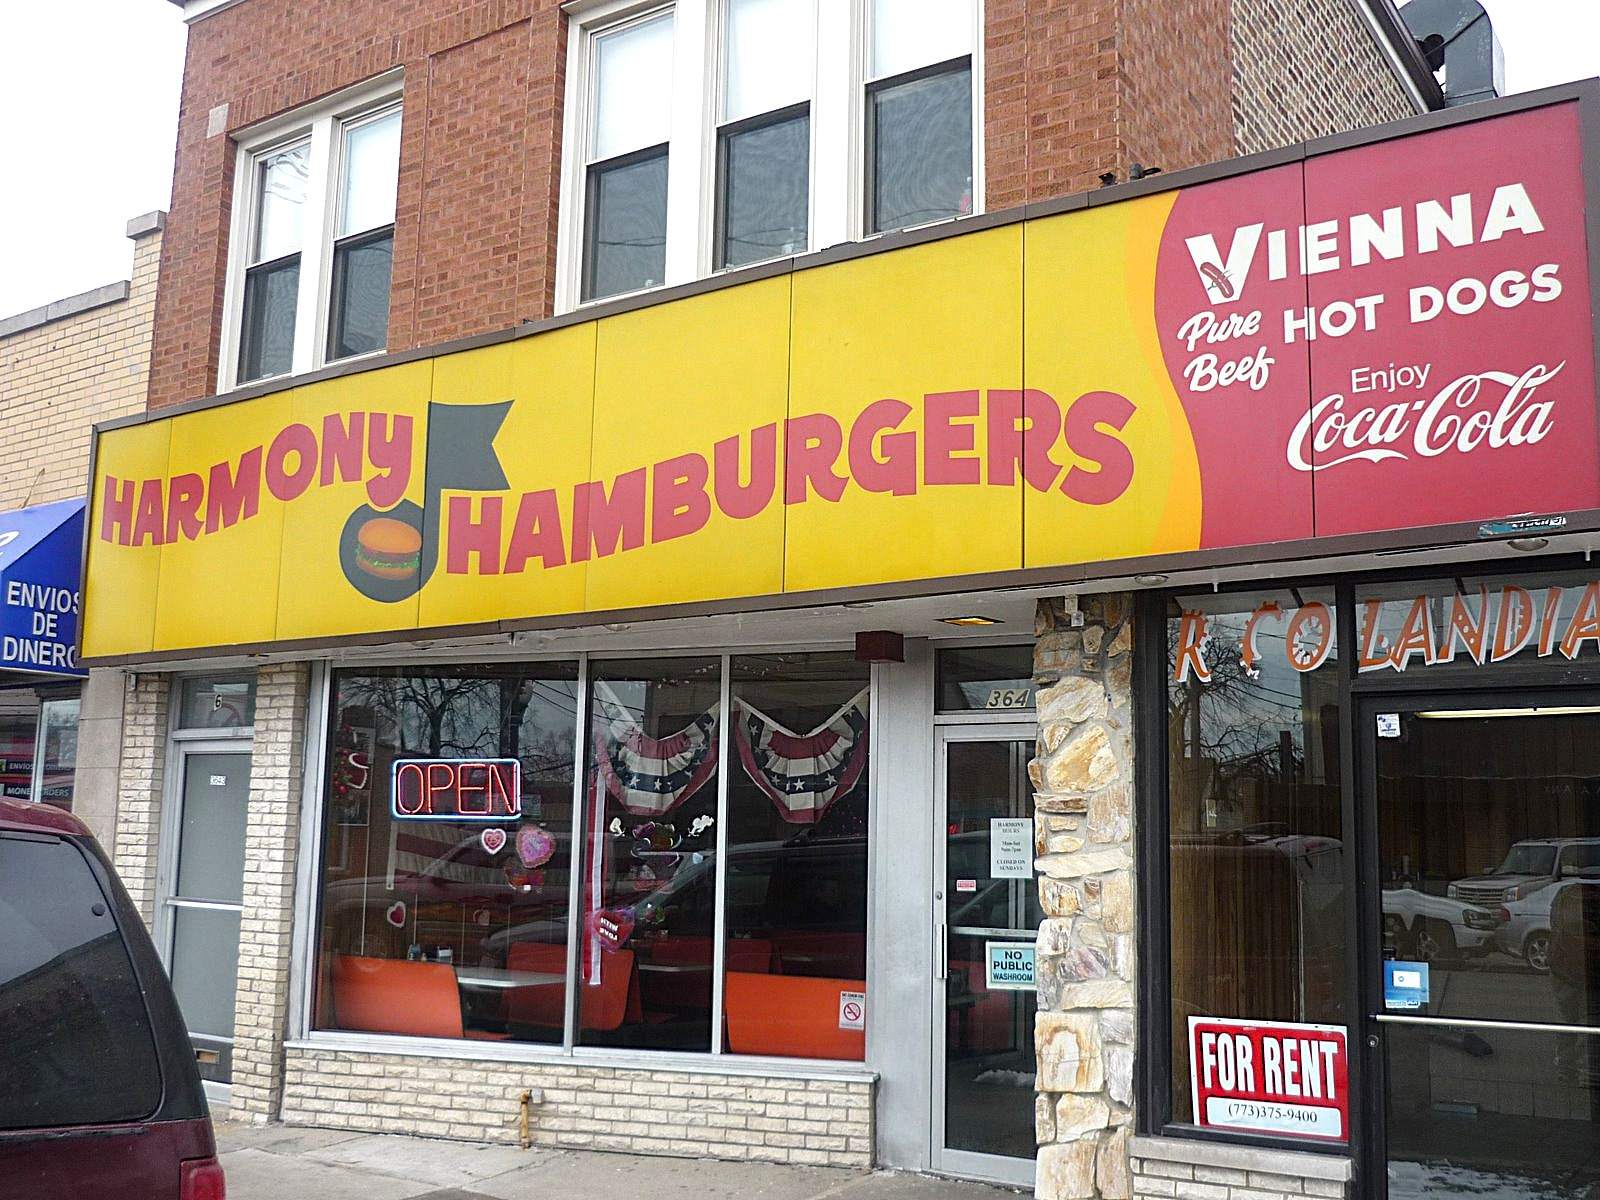
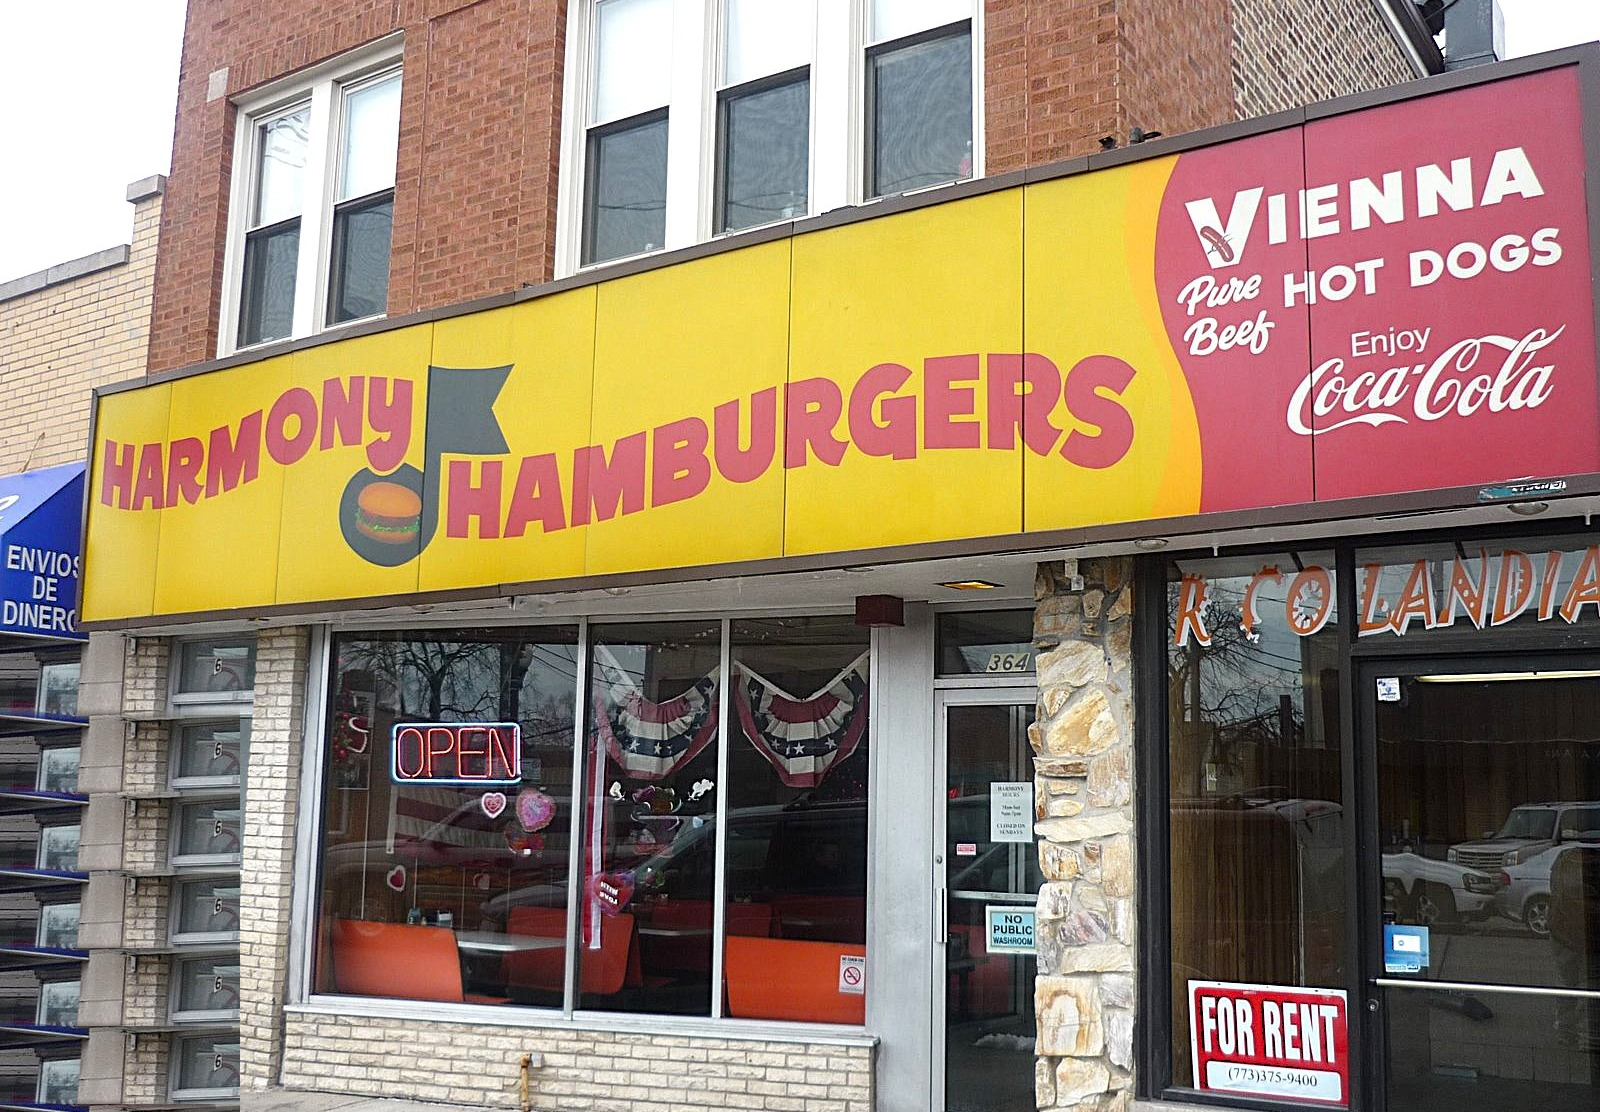
Remove van from Harmony photo via brick fill, crop to match residential ratio

diff --git a/tools/fix_harmony2.py b/tools/fix_harmony2.py
@@ -1,0 +1,37 @@
+"""Remove the van (rear window and body) from the bottom-left corner by
+tiling the brick wall above it downward, then crop the photo to the same
+aspect ratio as the residential card photo (640x445 = 1.438)."""
+from PIL import Image
+
+SRC = r"C:\Users\chica\OneDrive\Pictures\Camera Roll\Harmony Hamburgers 2.JPG"
+OUT = r"C:\Users\chica\Claude Skills\balanoff-law\assets\img\harmony-hamburgers.jpg"
+
+img = Image.open(SRC).convert("RGB")
+w, h = img.size  # 1600 x 1200
+print("source:", img.size)
+
+# van occupies x 0..~236, y ~744..1200
+PATCH_X1 = 240
+DONOR_TOP, DONOR_BOT = 660, 744   # clean brick strip directly above the van
+donor = img.crop((0, DONOR_TOP, PATCH_X1, DONOR_BOT))
+step = DONOR_BOT - DONOR_TOP
+
+# soft top edge so each tile blends into the previous one
+mask = Image.new("L", donor.size, 255)
+mp = mask.load()
+for y in range(12):
+    for x in range(donor.size[0]):
+        mp[x, y] = int(255 * y / 12)
+
+y = 744
+while y < h:
+    img.paste(donor, (0, y), mask)
+    y += step - 6  # slight overlap hides seams
+
+# crop to residential photo ratio 640/445
+target_ratio = 640 / 445
+new_h = round(w / target_ratio)  # 1112
+top = 36                          # trim mostly from the top brick, keep the sign
+img = img.crop((0, top, w, top + new_h))
+img.save(OUT, quality=92)
+print("saved", img.size, "ratio", round(img.size[0]/img.size[1], 3))
